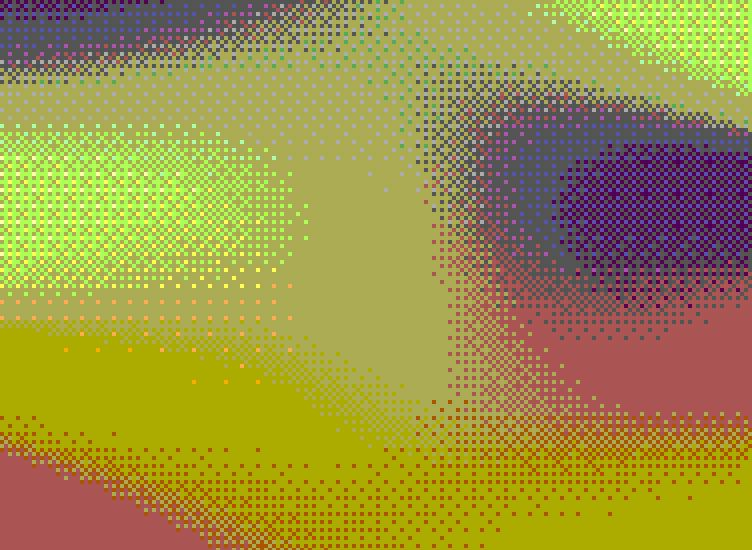
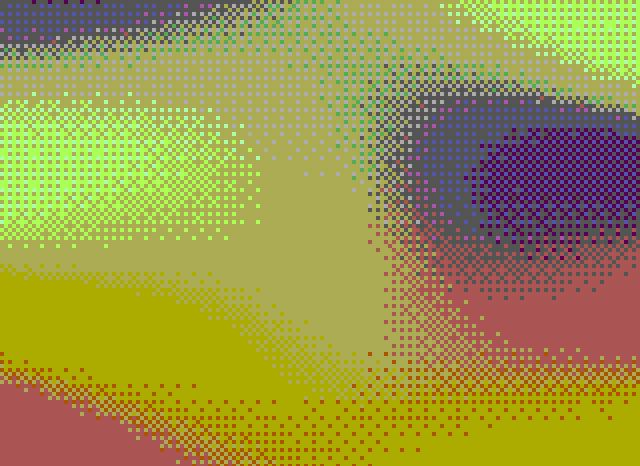
fix(docs): resize the favorites' scenes and card posters to the 1440px grid
SHA-218 narrowed the favorites grid to 1440px, so a card's window is now
320 by 233. The scenes still rendered at 376 by 275 and scaled down to
fit. Each drew about 39% more pixels than its window shows, and Dither
and LED Wall showed their cells at 0.85 of their real size.

SCENE_SIZE and the card loop in build-posters.sh now use 320 by 233, and
the seven card posters are recaptured at that size. homepage.spec.ts
checks the posters' new shape. favorites-hover.spec.ts checks that at
1728px a scene renders at its window's size, with a scale of 1.

diff --git a/apps/docs-tests/docs/favorites-hover.spec.ts b/apps/docs-tests/docs/favorites-hover.spec.ts
@@ -4,7 +4,8 @@ import type { Locator, Page } from '@playwright/test';
 /**
  * The homepage favorites come alive on hover (SHA-183): the scene mounts under
  * its poster on hover or focus, pauses when the visitor leaves, stays paused
- * when another favorite plays, and never mounts on touch. The no-WebGPU case
+ * when another favorite plays, and never mounts on touch. At the mock's
+ * width, the scene renders at its window's size (SHA-220). The no-WebGPU case
  * is in homepage.spec.ts, which runs without the adapter this file turns on.
  */
 
@@ -131,6 +132,38 @@ test('focusing a favorite mounts its scene behind the poster until the first fra
   expect(await readCanvasMount()).toEqual({ scene: 'loading', posterOpacity: '1' });
   await expect(scene(favorite)).toHaveAttribute('data-scene', 'painted', { timeout: 30_000 });
   await expect(poster(favorite)).toHaveCSS('opacity', '0');
+});
+
+// ---------------------------------------------
+// The scene's size
+// ---------------------------------------------
+
+// At the mock's 1728px the grid is at its full 1440px, and a card's window
+// is 320 by 233. The scene renders at that size, so useCoverScale
+// (favorites-list.tsx) leaves it at a scale of 1. A larger scene, scaled
+// down to fit, draws pixels the window never shows, and shrinks the cells
+// that Dither and LED Wall size in CSS pixels.
+test.describe('at the mock’s 1728px width', () => {
+  test.use({ viewport: { width: 1728, height: 1117 } });
+
+  test('a favorite’s scene renders at its window’s size, with no scale', async ({ page }) => {
+    await open(page);
+
+    const favorite = favorites(page).first();
+
+    await favorite.hover();
+    // useCoverScale writes the scale once it learns the window's size.
+    await expect(scene(favorite)).toHaveCSS('scale', '1');
+    expect(
+      await scene(favorite).evaluate((sceneLayer: HTMLElement) => ({
+        scene: [sceneLayer.offsetWidth, sceneLayer.offsetHeight],
+        sceneWindow: [
+          sceneLayer.parentElement!.clientWidth,
+          sceneLayer.parentElement!.clientHeight,
+        ],
+      })),
+    ).toEqual({ scene: [320, 233], sceneWindow: [320, 233] });
+  });
 });
 
 // ---------------------------------------------

diff --git a/apps/docs/src/components/favorites/favorites-list.tsx b/apps/docs/src/components/favorites/favorites-list.tsx
@@ -222,14 +222,16 @@ function LiveScene({ slug, paused }: { slug: FavoriteSlug; paused: boolean }) {
 
 // The size every favorite renders at, in CSS pixels, and the size
 // scripts/build-posters.sh captures every favorite's card poster at. It is
-// the card window's size on a 1664px grid, 17.5% larger than the 320 by 233
-// window at the grid's full 1440px, so useCoverScale scales the scene down
-// to cover the window, as it does at every narrower width. Larger draws
-// more pixels than the window shows, and shrinks patterns sized in CSS
-// pixels, such as Dither's and LED Wall's cells. Smaller than the window
-// makes useCoverScale scale the scene up, which blurs it. SHA-220 sets it
-// to the window's size.
-const SCENE_SIZE = { width: 376, height: 275 };
+// the card window's size at the grid's full 1440px, where useCoverScale
+// leaves the scene at a scale of 1, so Dither's and LED Wall's cells, which
+// are sized in CSS pixels, show at their real size. Four narrower columns
+// scale it down. Larger would draw more pixels than the window shows, and
+// smaller would scale the scene up, which softens it. The two-column and
+// one-column grids already scale it up at their wider widths, as far as
+// about 1.8 times for the 579 by 427 window at 639px. A change to the
+// grid's width or the card's padding moves the window, so change this with
+// it and recapture the card posters.
+const SCENE_SIZE = { width: 320, height: 233 };
 
 /**
  * Scales the scene to cover its window, the way `object-fit: cover` scales

diff --git a/apps/docs-tests/docs/homepage.spec.ts b/apps/docs-tests/docs/homepage.spec.ts
@@ -144,7 +144,7 @@ test('a favorite is named for its component', async ({ page }) => {
 
 // Each favorite shows its card poster, not the small square the components
 // index uses, and every one has loaded. A card poster is captured at the live
-// scene's shape, 376 by 275, so the spec checks the file's shape too.
+// scene's shape, 320 by 233, so the spec checks the file's shape too.
 test('each favorite shows its poster', async ({ page }) => {
   await open(page);
   await expect(favorites(page)).toHaveCount(FAVORITES.length);
@@ -174,7 +174,7 @@ test('each favorite shows its poster', async ({ page }) => {
     expect(image.src, image.href).toMatch(
       new RegExp(`/posters/${FAVORITES[index]}-card\\.(jpg|png)`),
     );
-    expect(image.shape, image.href).toBeCloseTo(376 / 275, 2);
+    expect(image.shape, image.href).toBeCloseTo(320 / 233, 2);
   }
 });
 
